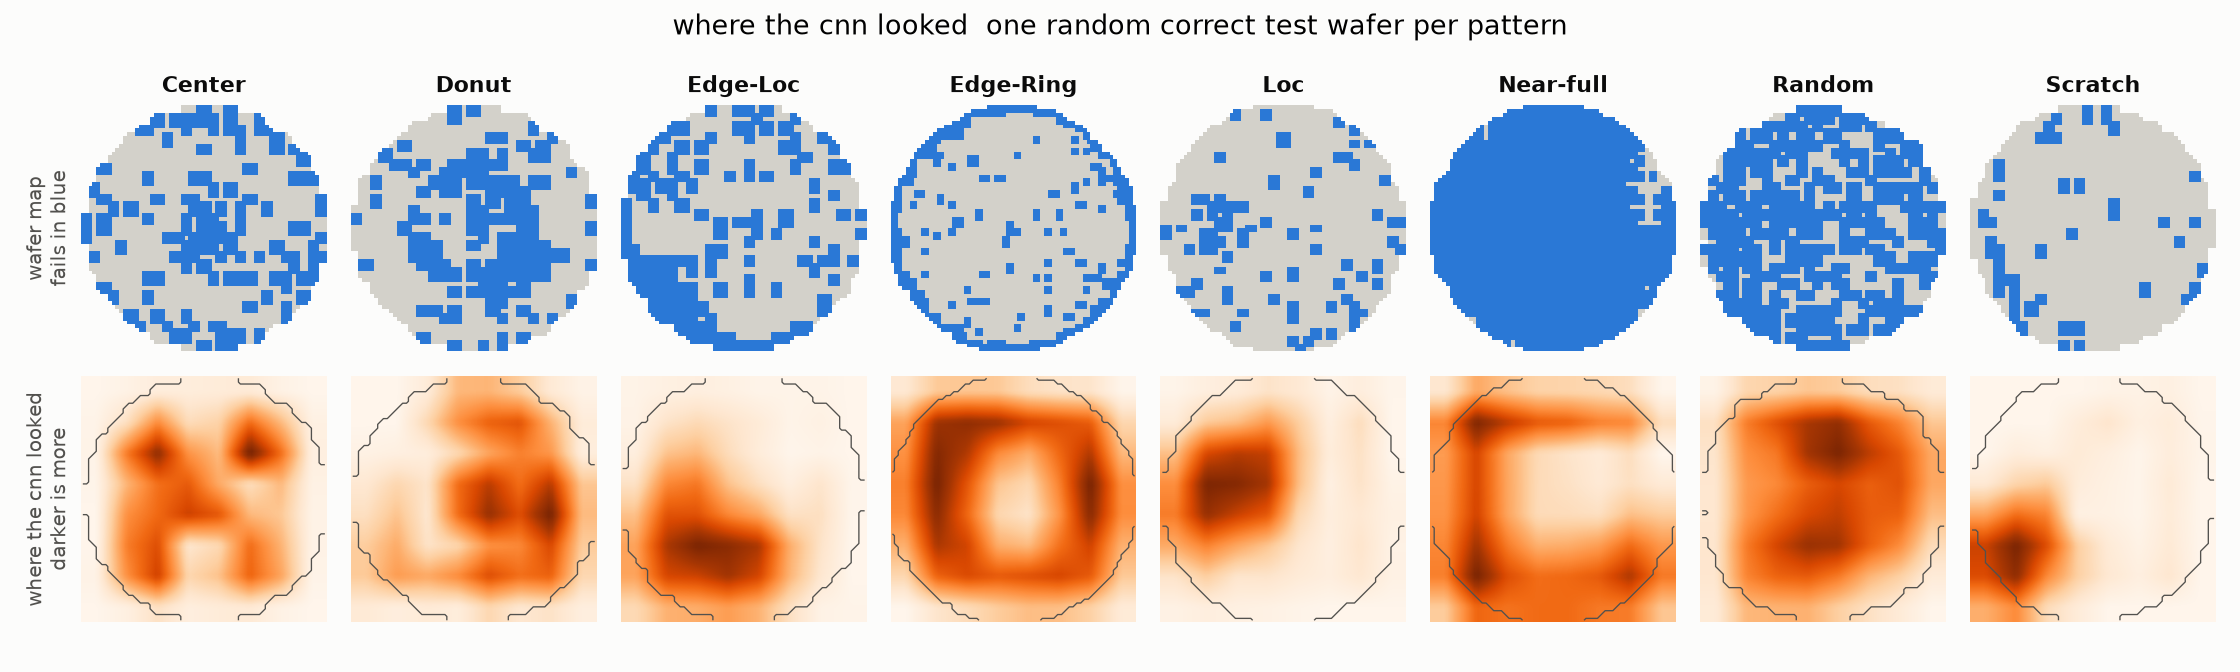
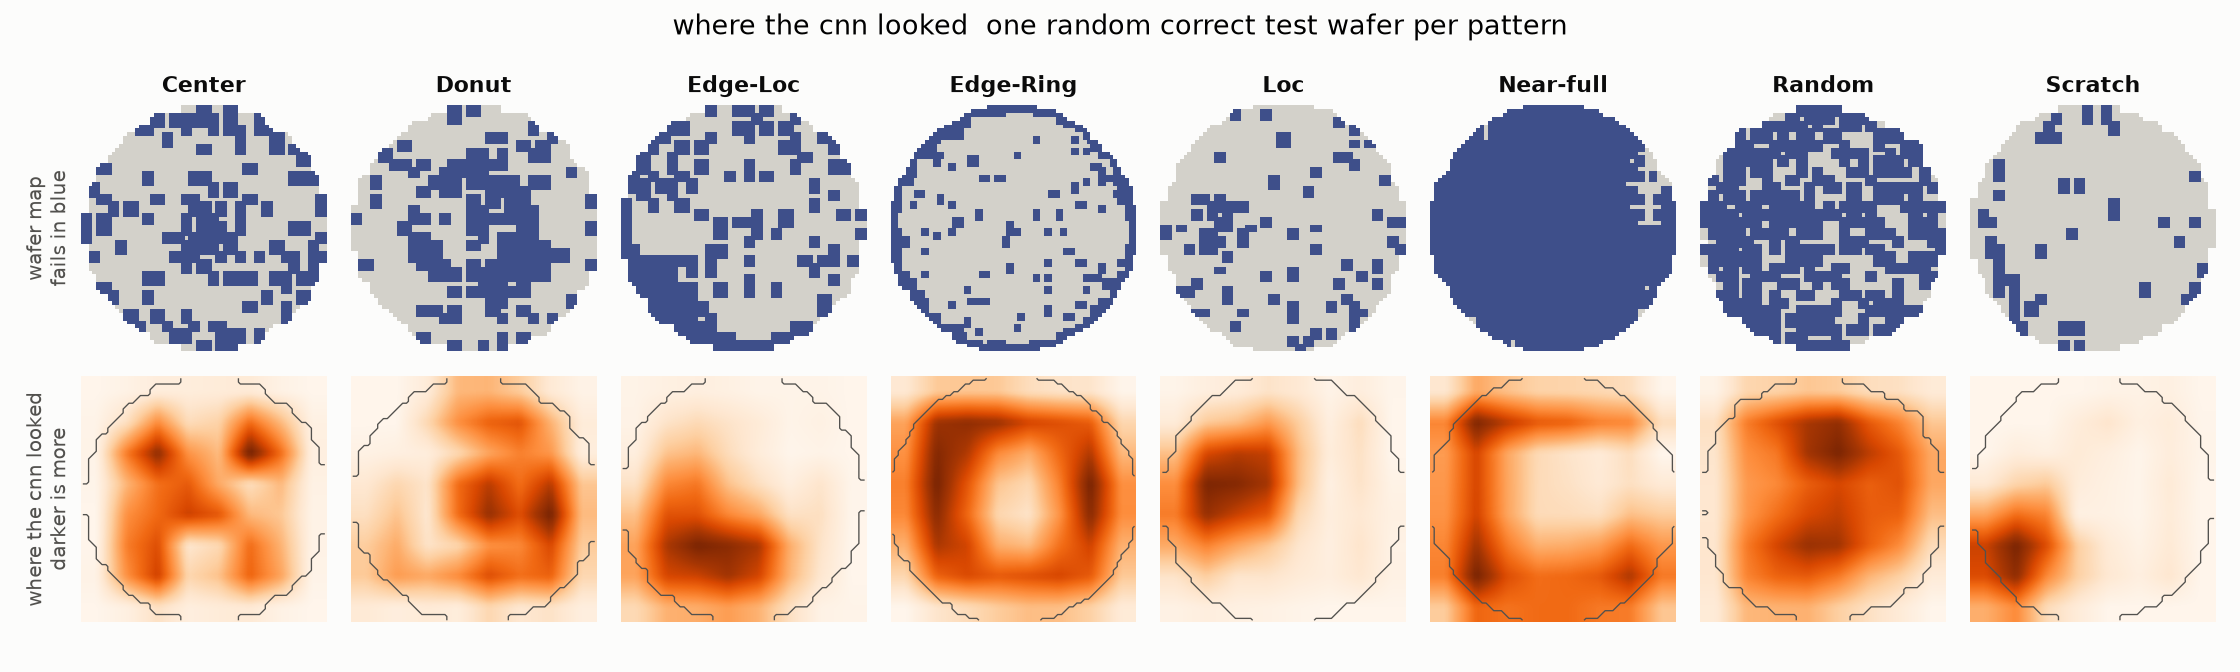
update

diff --git a/src/wm811k/viz.py b/src/wm811k/viz.py
@@ -3,6 +3,7 @@
 from pathlib import Path
 
 import matplotlib.pyplot as plt
+from matplotlib.colors import LinearSegmentedColormap
 import pandas as pd
 
 # one fixed colour per defect class used in every figure
@@ -22,7 +23,9 @@ CLASS_COLORS = {
 
 # models are not defect classes so they get ink and blue instead of class colours
 # and every model line is labelled directly in the figure
-MODEL_COLORS = {"rf": "#52514e", "cnn": "#2a78d6"}
+# the accent is a royal slate blue that sits with the portfolio site palette
+ACCENT = "#3e4f8a"
+MODEL_COLORS = {"rf": "#52514e", "cnn": ACCENT}
 MODEL_NAMES = {"rf": "random forest", "cnn": "small cnn"}
 
 SURFACE = "#fcfcfb"
@@ -61,7 +64,8 @@ def confusion_figure(conf: pd.DataFrame, title: str, path: Path) -> None:
     are as readable as none"""
     share = conf.div(conf.sum(axis=1), axis=0)
     fig, ax = plt.subplots(figsize=(7.2, 6.2))
-    ax.imshow(share.to_numpy(), cmap="Blues", vmin=0, vmax=1)
+    cmap = LinearSegmentedColormap.from_list("accent", [SURFACE, ACCENT])
+    ax.imshow(share.to_numpy(), cmap=cmap, vmin=0, vmax=1)
     ax.set_xticks(range(len(conf)), conf.columns, rotation=40, ha="right")
     ax.set_yticks(range(len(conf)), conf.index)
     for i in range(len(conf)):

diff --git a/scripts/run_yield.py b/scripts/run_yield.py
@@ -24,7 +24,7 @@ def pareto_figure(table: pd.DataFrame, baseline: float, path: Path) -> None:
     running = defects["share_of_excess_loss"].cumsum()
 
     fig, ax = plt.subplots(figsize=(8, 4.2))
-    colors = [viz.CLASS_COLORS[c] for c in defects.index]
+    colors = viz.ACCENT
     ax.bar(defects.index, values, color=colors, width=0.7, edgecolor=viz.SURFACE, linewidth=2)
     # the running share sits as text above each bar instead of a second axis
     # so there is only one scale to read

diff --git a/scripts/run_lots.py b/scripts/run_lots.py
@@ -30,7 +30,7 @@ def ratio_panel(ax, table: pd.DataFrame, title: str, xlabel: str, log: bool) -> 
         y,
         s=60,
         zorder=3,
-        color=[viz.CLASS_COLORS[c] for c in order],
+        color=viz.ACCENT,
         edgecolor=viz.SURFACE,
         linewidth=1.5,
     )

diff --git a/scripts/run_gradcam.py b/scripts/run_gradcam.py
@@ -25,7 +25,7 @@ PER_CLASS = 300
 
 # same wafer colours as the simulator figure  d34
 PASS_COLOR = "#d3d1ca"
-FAIL_COLOR = "#2a78d6"
+FAIL_COLOR = viz.ACCENT
 
 
 def measures(cam: np.ndarray, img: np.ndarray) -> dict:

diff --git a/scripts/make_simulator_figure.py b/scripts/make_simulator_figure.py
@@ -37,7 +37,7 @@ ORDER = [
 # fail is the one strong color in the figure
 SURFACE = "#fcfcfb"
 PASS_COLOR = "#d3d1ca"
-FAIL_COLOR = "#2a78d6"
+FAIL_COLOR = "#3e4f8a"
 TEXT = "#0b0b0b"
 MUTED = "#52514e"
 

diff --git a/README.md b/README.md
@@ -23,6 +23,7 @@ Each bar compares a pattern with clean wafers of the same product.
 - [Limits](#limits)
 - [Usage](#usage)
 - [References](#references)
+- [Terms](#terms)
 
 ## Overview
 
@@ -61,15 +62,18 @@ Sources: d13 to d15
 
 How the models are scored:
 
-- I report macro-F1 and per-class recall (the share of a defect type the model finds), never headline accuracy. 85.2% of test wafers are "none", so a model that never finds a single defect is already 85.2% accurate.
-- 95% confidence intervals (CI) resample whole lots (500 lot-bootstrap rounds), because wafers in the same lot aren't independent.
+> [!IMPORTANT]
+> I never report headline accuracy. 85.2% of test wafers are "none", so a model that never finds a single defect is already 85.2% accurate.
+
+- I report [macro-F1](#terms "a score that weighs every defect type equally, so rare ones count as much as common ones") and per-class [recall](#terms "the share of a defect type the model finds") instead.
+- [95% confidence intervals](#terms "95% confidence interval, the range the true value likely falls in") come from a [lot bootstrap](#terms "resampling whole lots to measure uncertainty, since wafers in one lot aren't independent") with 500 rounds.
 - Each model touched the test set once. Every setting was picked on validation.
 
 ## Results
 
 ### Yield loss by pattern
 
-Edge-Ring and Edge-Loc cost the most dies, as the chart at the top shows. I measured excess die loss, the dies lost beyond what clean wafers of the same product lose, using map grid size as the product marker.
+Edge-Ring and Edge-Loc cost the most [dies](#terms "one chip on the wafer"), as the chart at the top shows. I measured [excess die loss](#terms "dies lost beyond what clean wafers of the same product lose") using map grid size as the product marker.
 
 - Edge-Ring: 25.0% of excess loss
 - Edge-Loc: 22.2%
@@ -81,7 +85,7 @@ Sources: `results/yield_by_class.csv`, `figures/yield_pareto.png`, d16, d17
 
 ### Lot clustering
 
-Every defect pattern piles up inside lots much more than chance would allow. That points at tools and chambers more than random events.
+Every defect pattern piles up inside [lots](#terms "a batch of wafers that go through the same tools together") much more than chance would allow. That points at tools and chambers more than random events.
 
 ![Two dot plots: how much more often each pattern shares a lot than shuffled labels allow, and whether it repeats in the next slot](figures/lots_clustering.png)
 
@@ -91,9 +95,9 @@ How much more likely than expected a wafer is to have a lot-mate with the same p
 - Random: 111 times
 - Edge-Ring: 17 times
 
-Every class passes a permutation test at p < 0.005. A permutation test shuffles the labels to see what chance alone would give.
+Every class passes a [permutation test](#terms "shuffling the labels many times to see what chance alone would give") at p < 0.005.
 
-502 of 7,025 lots (7.1%) are excursion lots, where one defect pattern covers half or more of the labelled wafers. 361 of those are Edge-Ring.
+502 of 7,025 lots (7.1%) are [excursion lots](#terms "a lot where one defect pattern covers half or more of its labelled wafers"), and 361 of those are Edge-Ring.
 
 Slot order inside a lot only adds a little on top of that. Loc is the clearest case, at 1.28 times more likely than chance to repeat in the next slot.
 
@@ -101,32 +105,33 @@ Sources: `results/lots_*.csv`, `figures/lots_clustering.png`
 
 ### Classifiers
 
-Overall the two models are close, but the CNN misses far fewer defects. The random forest works from 24 features I engineered from each map, and the CNN reads the map image directly.
+Overall the two models are close, but the [CNN](#terms "convolutional neural network, a model that reads the map image directly") misses far fewer defects than the [random forest](#terms "a model that votes across many decision trees built on features I engineered"). The forest works from 24 features I engineered from each map, and the CNN reads the map image directly.
 
 ![Confusion matrix of the CNN on the test set, showing how each true pattern was classified](figures/cnn_confusion.png)
 
-- Random forest: 0.867 macro-F1 (95% CI 0.846 to 0.880), 8.4% of defect wafers passed as clean
+- Random forest: 0.867 [macro-F1](#terms "a score that weighs every defect type equally, so rare ones count as much as common ones") ([95% CI](#terms "95% confidence interval, the range the true value likely falls in") 0.846 to 0.880), 8.4% of defect wafers passed as clean
 - Small CNN with 0.58M weights, trained 3 times from different random seeds: 0.877 (0.855 to 0.893), seeds 0.877 to 0.884, 3.7% passed as clean
 
-The CNN beats the forest by 0.010 macro-F1, with a paired interval of −0.008 to +0.029. That interval includes zero, so overall neither one is clearly better.
+> [!IMPORTANT]
+> Overall neither model is clearly better. The CNN beats the forest by 0.010 macro-F1, but the paired interval of −0.008 to +0.029 includes zero.
 
-The real difference is in the expensive mistake, a defect wafer called clean. The CNN drops Scratch missed as clean from 27% to 11% and Loc from 20% to 8%. Its recall gains on Loc (+0.18) and Scratch (+0.12) are clear of zero.
+The real difference is in the expensive mistake, a defect wafer called clean. The CNN drops Scratch missed as clean from 27% to 11% and Loc from 20% to 8%. Its [recall](#terms "the share of a defect type the model finds") gains on Loc (+0.18) and Scratch (+0.12) are clear of zero.
 
 Sources: `results/cnn_minus_rf.csv`, `results/missed_as_none_rf_vs_cnn.csv`, `figures/rf_confusion.png`, `figures/cnn_confusion.png`
 
 ### Review gate
 
-At the same miss rate, the CNN needs about half the human review the forest does. A review gate only calls a wafer clean when the model is confident enough and sends the rest to a person, with the threshold picked on validation.
+At the same miss rate, the CNN needs about half the human review the forest does. A [review gate](#terms "the model only calls a wafer clean when it's confident and sends the rest to a person") sets its confidence threshold on validation.
 
 ![Left: defect wafers passed as clean against clean wafers sent to review, for the forest and the CNN. Right: macro-F1 on the wafers each model decides as more go to review](figures/abstain_tradeoff.png)
 
-With missed defects held near 5%, the forest sends 19.0 clean wafers per 1,000 to review and the CNN sends 10.3. If the CNN only decides the 90% of wafers it's surest about, its macro-F1 on those wafers is 0.986.
+With missed defects held near 5%, the forest sends 19.0 clean wafers per 1,000 to review and the CNN sends 10.3. If the CNN only decides the 90% of wafers it's surest about, its [macro-F1](#terms "a score that weighs every defect type equally, so rare ones count as much as common ones") on those wafers is 0.986.
 
 Sources: `results/abstain_operating_points.csv`, `figures/abstain_tradeoff.png`
 
 ### Grad-CAM
 
-For most patterns the CNN looks at the failing dies, not at unrelated parts of the image. I checked this with Grad-CAM (a heat map of where the model looked) on up to 300 correct test wafers per class.
+For most patterns the CNN looks at the failing dies, not at unrelated parts of the image. I checked this with [Grad-CAM](#terms "a heat map of where the model looked") on up to 300 correct test wafers per class.
 
 ![One correct test wafer per pattern, with the CNN's Grad-CAM heat map underneath](figures/gradcam_examples.png)
 
@@ -138,7 +143,10 @@ Sources: `results/gradcam_summary.csv`, `figures/gradcam_examples.png`
 
 Some of the dataset's labels are wrong. I hand-checked the 24 test wafers that both models confidently gave a different class from their label. On a blind re-review, made before seeing the models' answers, 10 labels were wrong.
 
-My first pass, done after seeing their answers, had found 17, so it was anchored on the models. Fixing the labels barely moves the scores: macro-F1 goes from 0.867 to 0.870 for the forest and from 0.877 to 0.879 for the CNN.
+> [!IMPORTANT]
+> My first pass, done after seeing the models' answers, had found 17 wrong labels. It was anchored on the models, so the blind re-review is the record.
+
+Fixing the labels barely moves the scores: [macro-F1](#terms "a score that weighs every defect type equally, so rare ones count as much as common ones") goes from 0.867 to 0.870 for the forest and from 0.877 to 0.879 for the CNN.
 
 [Full analysis](docs/label-audit.md)
 
@@ -146,9 +154,9 @@ Sources: `results/label_audit_candidates.csv`, `results/label_rescore_summary.cs
 
 ### Vision-language models
 
-Vision-language models (AI models that read images and text) can't replace the trained models here when given no training. On the same 180 test wafers, with my best prompt for the two AI models:
+[Vision-language models](#terms "an AI model that reads images and text together") can't replace the trained models here when run [zero-shot](#terms "no training examples, only a prompt describing the task"). On the same 180 test wafers, with my best prompt for the two AI models:
 
-- Small CNN: 0.916 macro-F1
+- Small CNN: 0.916 [macro-F1](#terms "a score that weighs every defect type equally, so rare ones count as much as common ones")
 - Random forest: 0.866
 - Claude Opus 5.5: 0.718
 - GPT-6 Luna: 0.612
@@ -161,7 +169,7 @@ Sources: `results/vlm_summary.csv`, `results/vlm_pairs.csv`, `results/vlm_paper_
 
 ### Triage assistant
 
-Limited to one row of my root-cause table, an AI model drafts fab incident reports without making things up. When the CNN flags a wafer, GPT-6 Luna drafts the first steps of an 8D report (a standard manufacturing problem-solving format), and code, not another AI, checks every draft for invented tools, numbers, causes and references.
+Limited to one row of my root-cause table, an AI model drafts fab incident reports without making things up. When the CNN flags a wafer, GPT-6 Luna drafts the first steps of an [8D report](#terms "a standard manufacturing problem-solving format, D2 to D4 describe, contain and find the root cause"), and code, not another AI, checks every draft for invented tools, numbers, causes and references.
 
 With the table row, 60 of 60 drafts passed every check, and without it 2 of 60 did. That shows the limit works. It doesn't show the table is right, since most rows are still hypotheses.
 
@@ -171,7 +179,7 @@ Sources: `results/assistant_summary.csv`, d49, d50, d60, d62
 
 ### Training on simulated wafers
 
-A model trained only on simulated wafers catches most real defects but flags half the real clean wafers. I built a process-fault simulator ([docs/simulator.md](docs/simulator.md)) that makes wafer maps from physical fault settings, and trained a random forest on 27,000 simulated maps.
+A model trained only on simulated wafers catches most real defects but flags half the real clean wafers. I built a process-fault simulator ([docs/simulator.md](docs/simulator.md)) that makes wafer maps from physical fault settings, and trained a [random forest](#terms "a model that votes across many decision trees built on features I engineered") on 27,000 simulated maps.
 
 ![Confusion matrix for the random forest trained only on simulated wafers and scored on real test wafers](figures/synthetic_rf_confusion.png)
 
@@ -181,7 +189,12 @@ Sources: `results/synthetic_*.csv`, d51 to d54
 
 ### Root causes
 
-[docs/root_causes.md](docs/root_causes.md) maps each pattern to its likely process modules and physical mechanism, the first fab step to check, and the signal that would confirm the cause. Each row cites a verified source or is marked as an engineering hypothesis. The Edge-Ring, Center and Donut rows draw on my own hands-on spin-coat edge-bead and ALD uniformity work.
+[docs/root_causes.md](docs/root_causes.md) maps each pattern to its likely process modules and physical mechanism, the first fab step to check, and the signal that would confirm the cause. Each row cites a verified source or is marked as an engineering hypothesis.
+
+> [!WARNING]
+> Most rows are still hypotheses. The data has no tool, chamber or recipe fields, so none of them is confirmed against real process history.
+
+The Edge-Ring, Center and Donut rows draw on my own hands-on spin-coat edge-bead and ALD uniformity work.
 
 ## Limits
 
@@ -241,6 +254,28 @@ python scripts/run_assistant.py
 - Cao and Tao, arXiv 2610.35080, 2026. GPT-4o zero-shot on WM-811K, compared in [docs/vlm.md](docs/vlm.md).
 - [DECISIONS.md](DECISIONS.md), every analysis choice and the options I turned down.
 - [docs/root_causes.md](docs/root_causes.md), the sources behind each root-cause row.
+
+## Terms
+
+Hover a linked term anywhere in this README or the docs to see its definition. They're all here too.
+
+- Die: One chip on the wafer.
+- Lot: A batch of wafers that go through the same tools together.
+- Excursion lot: A lot where one defect pattern covers half or more of its labelled wafers.
+- Excess die loss: Dies lost beyond what clean wafers of the same product lose.
+- CNN: Convolutional neural network, a model that reads the map image directly.
+- Random forest: A model that votes across many decision trees built on features I engineered.
+- Macro-F1: A score that weighs every defect type equally, so rare ones count as much as common ones.
+- Recall: The share of a defect type the model finds.
+- 95% CI: 95% confidence interval, the range the true value likely falls in.
+- Lot bootstrap: Resampling whole lots to measure uncertainty, since wafers in one lot aren't independent.
+- Permutation test: Shuffling the labels many times to see what chance alone would give.
+- Confusion matrix: A grid of true pattern against predicted pattern.
+- Review gate: The model only calls a wafer clean when it's confident and sends the rest to a person.
+- Grad-CAM: A heat map of where the model looked.
+- Vision-language model: An AI model that reads images and text together.
+- Zero-shot: No training examples, only a prompt describing the task.
+- 8D report: A standard manufacturing problem-solving format, D2 to D4 describe, contain and find the root cause.
 
 ## License
 
